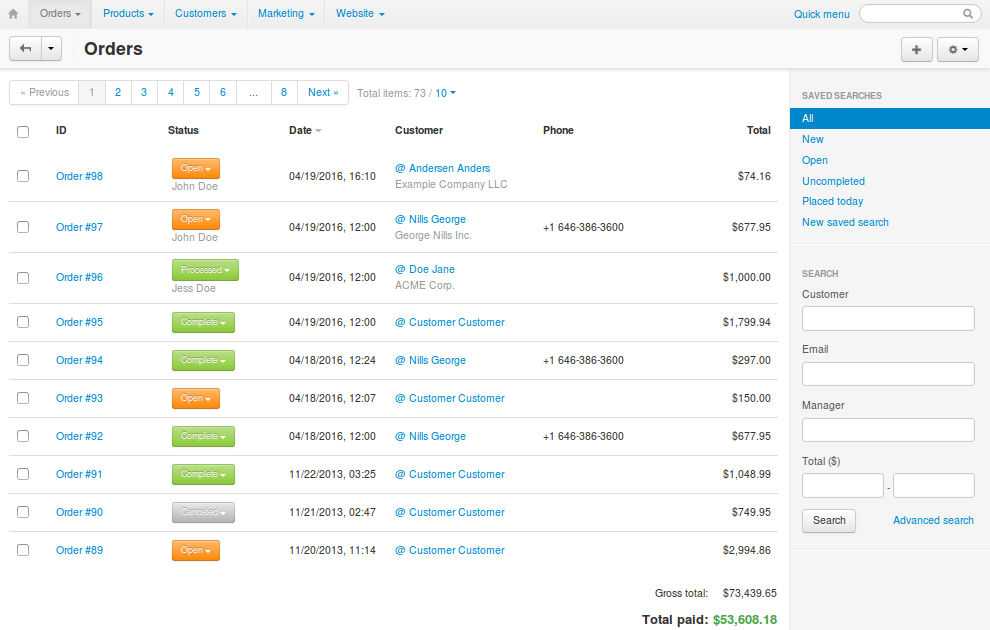
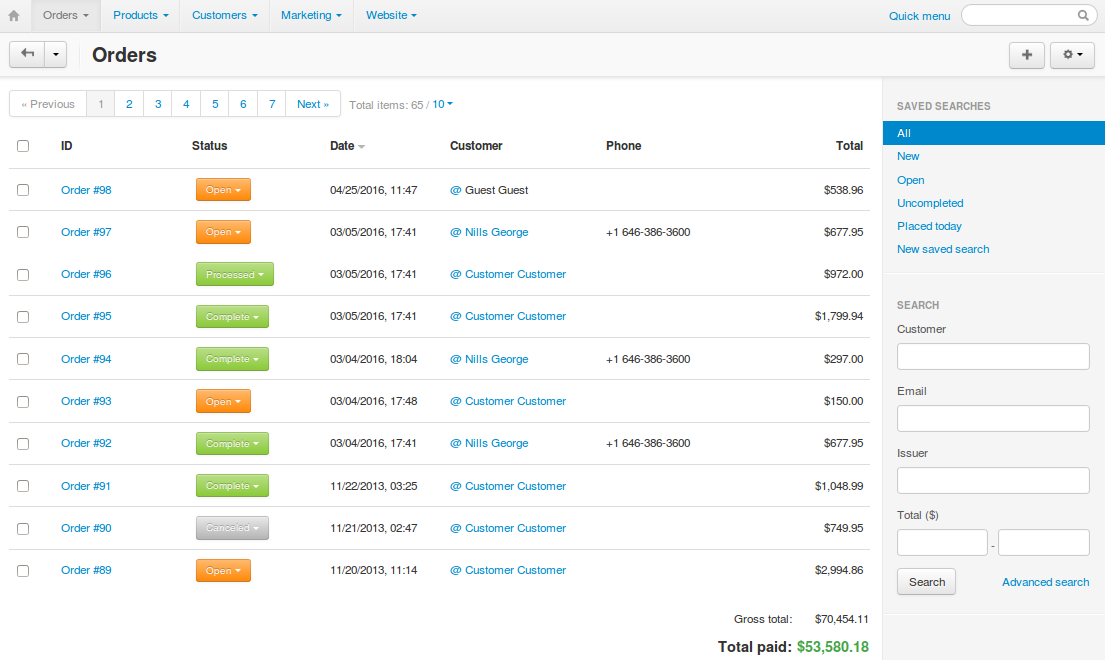
User Guide: Orders: Removed the postponed order management features.

diff --git a/user_guide/orders/actions_on_orders/view_orders.rst b/user_guide/orders/actions_on_orders/view_orders.rst
@@ -4,10 +4,6 @@ View Orders
 
 When you open the **Orders → View orders** section, the system automatically lists all orders from the database, i.e. the orders that have ever been placed and not deleted. By default, the list is arranged according to the date when the orders were placed, with the most recent orders at the top.
 
-.. note::
-
-    Beginning with CS-Cart & Multi-Vendor 4.3.7, the order list also includes the managers assigned to the orders, and the names of the customers' companies.
-
 .. image:: img/view_orders.png
     :align: center
     :alt: View the list of orders in the Administration panel under Orders → View orders.
@@ -26,7 +22,7 @@ Use the search form on the right to display only those orders that satisfy a cer
 
 .. hint::
 
-    Click **Advanced search** for more filtering criteria. Beginning with CS-Cart & Multi-Vendor 4.3.7, you can search orders by the company of the customer (if specified).
+    Click **Advanced search** for more filtering criteria.
 
 If you filter orders against a particular search pattern regularly (e.g., to list all new orders that were paid with a gift certificate), you can save the pattern. It will appear the list of predefined patterns in the top left corner of the **View orders** section (see the picture below).
 
@@ -50,20 +46,14 @@ In the **View orders** section, you can do the following:
 
 * Add comments to the order which are visible to the customer who placed the order.
 
-* Export order details in the CSV, Quickbooks, and MYOB formats. If the MYOB and Quickbooks add-ons are installed and configured.
+* Export order details in the CSV format. The :doc:`MYOB <../../addons/myob/index>` and :doc:`Quickbooks <../../addons/eBay/index>` add-ons allow you to export order details in other formats. 
 
-* Get orders from eBay. If the eBay synchronization add-on is installed and configured.
+* Get orders from eBay (:doc:`eBay synchronization <../../addons/eBay/index>` add-on required).
 
 * Print invoices and package slips both separately for each order or in bulk.
 
-* Remove credit card info (if any).
+* Remove credit card info (if there is any).
 
 * Create orders.
 
 * Delete existing orders.
-
-* Copy orders.
-
-.. note::
-
-    Copying orders in the Administration panel was not available until CS-Cart & Multi-Vendor 4.3.7.

diff --git a/user_guide/orders/sales_reports/create_chart.rst b/user_guide/orders/sales_reports/create_chart.rst
@@ -19,9 +19,9 @@ To add a chart to a report:
     :align: center
     :alt: Edit a report
 
-This will open a page with the report details. The **Charts** tab contains a list of assigned reports (if any).
+This will open a page with the report details. The **Charts** tab contains the list of assigned reports, if there are any.
 
-4. Click the **+** button to will open a the chart creation form.
+4. Click the **+** button to open the chart creation form.
 
 .. image:: img/reports_03.png
     :align: center
@@ -46,12 +46,7 @@ This will open a page with the report details. The **Charts** tab contains a lis
      * **Locations**, 
      * **Users**, 
      * **Categories**, 
-     * **Products**,
-     * **Managers**.
-
-     .. note::
-
-         The **Managers** tab was not available until the introduction of :doc:`managers <../actions_on_orders/assign_manager>` in CS-Cart & Multi-Vendor 4.3.7.  
+     * **Products**.
 
      For example, the **Statuses of orders** tab allows you to show statistics on orders with specific statuses only. The **Products** tab allows you to choose the products, the statistics of which should be represented in the chart. Statistics on the unchosen products will not be included in the chart.
 
